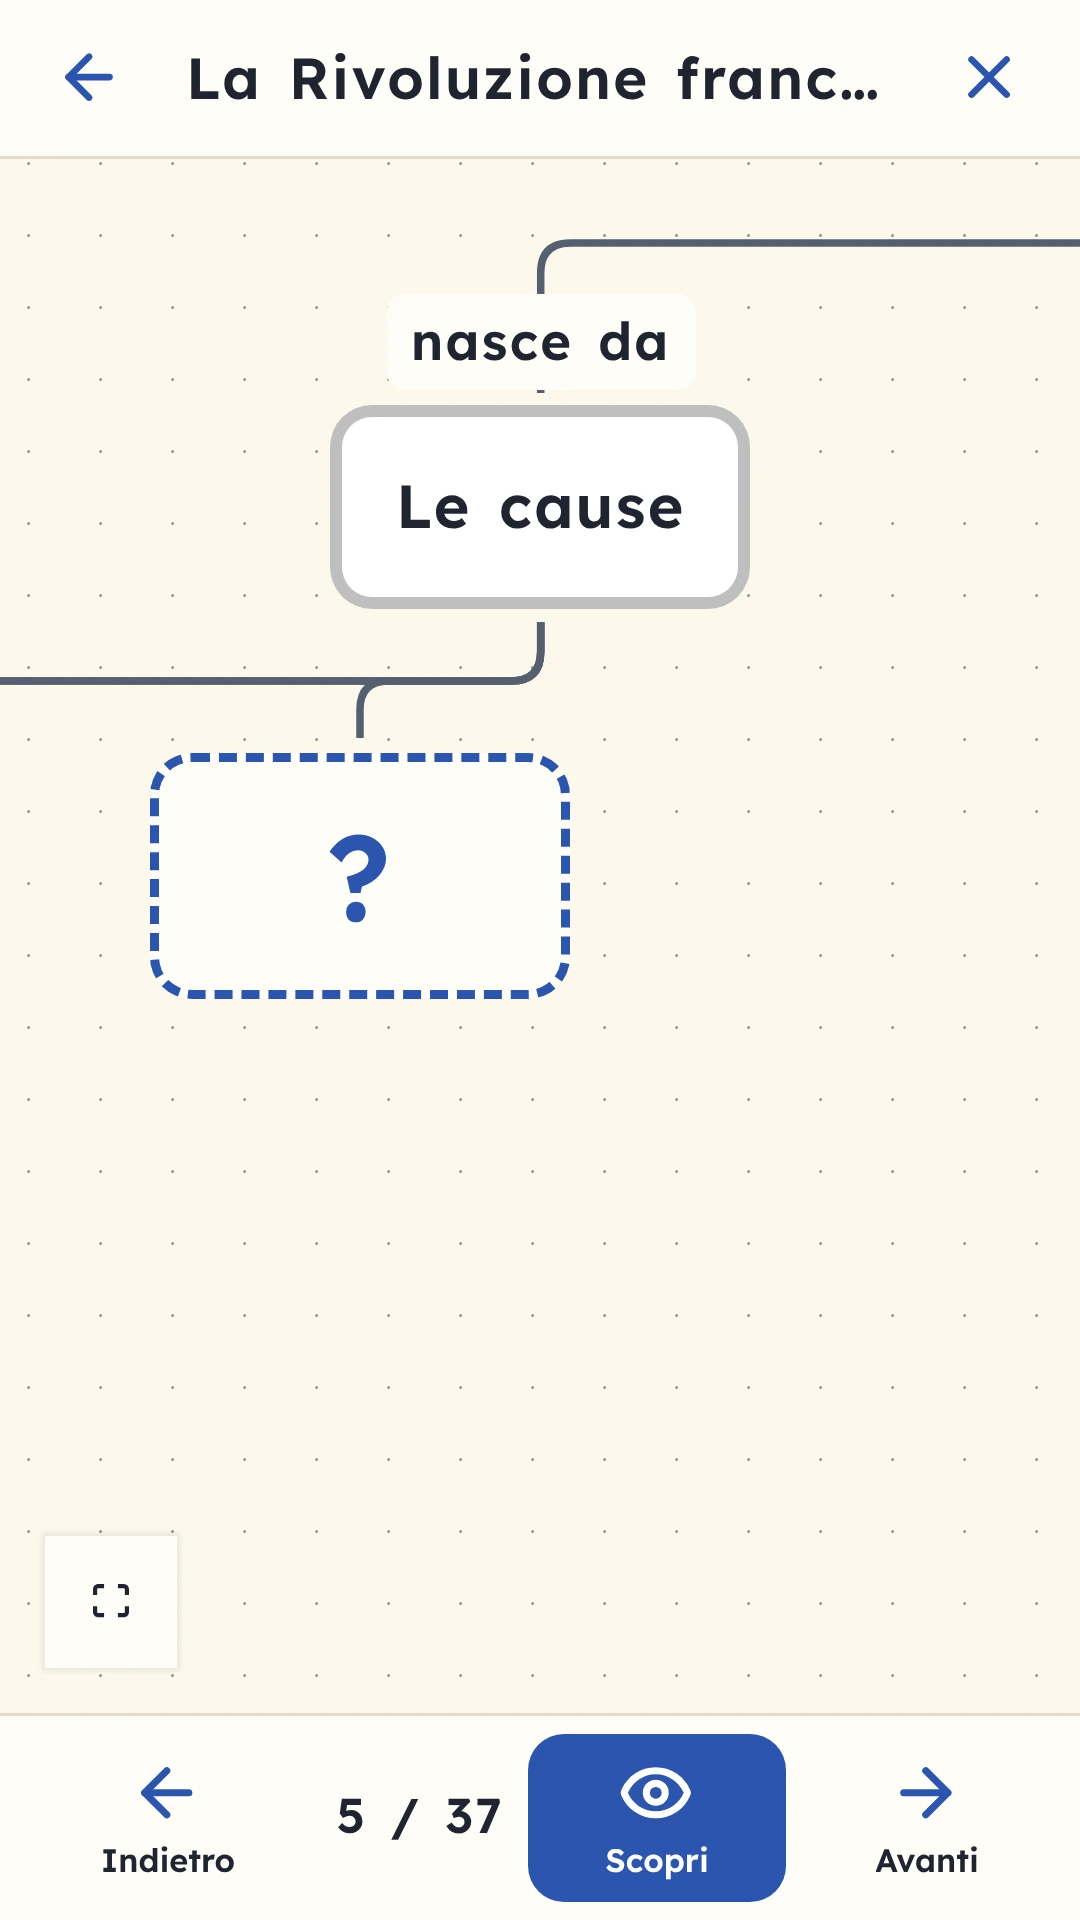
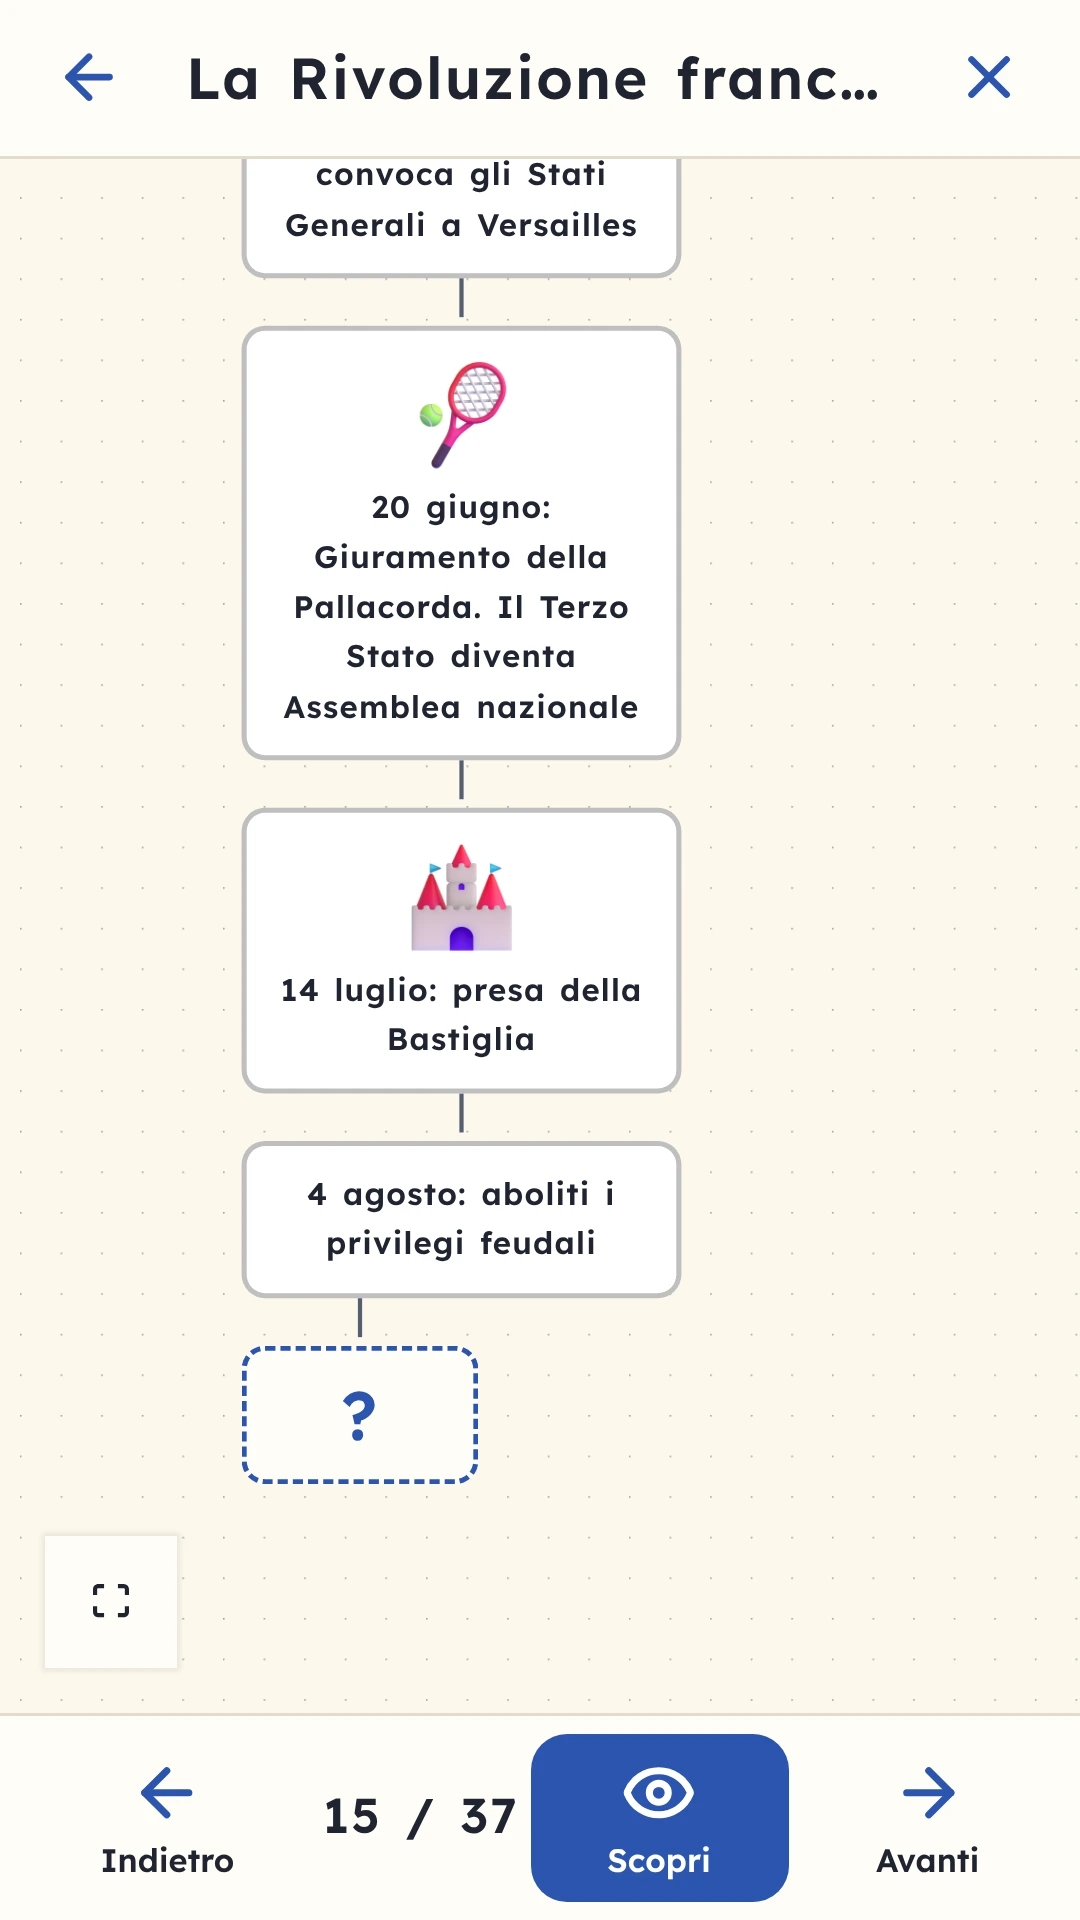
Le schermate per «Installa» entrano nel manifest e non pesano sulla cache
Chrome ora le trova nel manifest (4 schermate, con l'etichetta in italiano)
e le scarica solo quando mostra la finestra «Installa»: restano fuori dalla
cache del service worker, così nessun bambino le scarica per niente.
Le schermate «Indovina» e quella larga sono rifatte più da vicino, con il
testo leggibile.

Nei testi per il lancio non si scrive più «nessun dato raccolto»: l'app non
raccoglie dati di chi la usa, ma il server vede l'indirizzo IP, come dice
l'informativa. Nella tabella dei concorrenti l'account di Mindomo diventa
«non osservato». Il link «Guarda come si fa» dice a chi usa la voce che si
apre in un'altra scheda, e la pagina «Come installare» non promette dove sta
il tasto Condividi su iPhone.

Claude-Session: https://claude.ai/code/session_018GY29AcSauU8Mckh8zUVXE

diff --git a/vite.config.ts b/vite.config.ts
@@ -22,9 +22,18 @@ export default defineConfig({
           { src: 'icon-512.png', sizes: '512x512', type: 'image/png', purpose: 'any' },
           { src: 'icon-maskable-512.png', sizes: '512x512', type: 'image/png', purpose: 'maskable' },
         ],
+        // Shown by Chrome's richer install dialog (npm run screenshots).
+        screenshots: [
+          { src: 'screenshots/narrow-1.webp', sizes: '1080x1920', type: 'image/webp', form_factor: 'narrow', label: 'Un ramo della mappa «La Rivoluzione francese», colorato' },
+          { src: 'screenshots/narrow-2.webp', sizes: '1080x1920', type: 'image/webp', form_factor: 'narrow', label: 'Ripassa con «Indovina»: i concetti si scoprono uno alla volta' },
+          { src: 'screenshots/wide-1.webp', sizes: '1920x1080', type: 'image/webp', form_factor: 'wide', label: 'La mappa «La Rivoluzione francese», a colori: il ramo «Le fasi»' },
+          { src: 'screenshots/wide-2.webp', sizes: '1920x1080', type: 'image/webp', form_factor: 'wide', label: '«Aspetto e voce»: caratteri per la dislessia, anche OpenDyslexic' },
+        ],
       },
       workbox: {
         globPatterns: ['**/*.{js,css,html,svg,woff2,webp}'],
+        // Only the browser's install dialog fetches them, from the network: not worth precaching for every user.
+        globIgnores: ['screenshots/**'],
         runtimeCaching: [
           {
             // OCR engine and Italian model (Tesseract.js), downloaded on first use.

diff --git a/public/installa.html b/public/installa.html
@@ -239,7 +239,7 @@
             <svg class="icon" viewBox="0 0 24 24" fill="none" stroke="currentColor" stroke-width="2" stroke-linecap="round" stroke-linejoin="round" aria-hidden="true">
               <path d="M12 15V3M8 7l4-4 4 4M6 11H5a1 1 0 0 0-1 1v8a1 1 0 0 0 1 1h14a1 1 0 0 0 1-1v-8a1 1 0 0 0-1-1h-1" />
             </svg>
-            (un quadrato con una freccia che sale). Su iPad sta in alto a destra, su iPhone in basso.
+            (un quadrato con una freccia che sale). Su iPad sta in alto a destra. Su iPhone sta in basso, oppure dentro il menu ⋯ (tre puntini).
           </li>
           <li>Scorri la lista verso l’alto e tocca <strong>«Aggiungi alla schermata Home»</strong>.</li>
           <li>Tocca <strong>«Aggiungi»</strong>, in alto a destra.</li>

diff --git a/e2e/installa.spec.ts b/e2e/installa.spec.ts
@@ -114,6 +114,8 @@ test.describe('«Guarda come si fa» nell’avviso dello schermo intero', () => 
     await expect(link).toBeInViewport({ ratio: 1 });
     await expect(link).toHaveAttribute('href', '/installa.html#ipad');
     await expect(link).toHaveAttribute('target', '_blank');
+    // A screen reader is told that it leaves this window; the child sees only «Guarda come si fa».
+    await expect(link).toHaveAccessibleName(/si apre in un’altra scheda/);
     await expect(link).toHaveAttribute('rel', /noopener/);
     expect(await seriousProblems(page)).toEqual([]);
     // The dialog keeps its place: the child comes back to it.

diff --git a/src/components/FullscreenButton.tsx b/src/components/FullscreenButton.tsx
@@ -30,6 +30,7 @@ export function FullscreenHint({ onClose }: { onClose(): void }) {
       <p>
         <a href="/installa.html#ipad" target="_blank" rel="noopener" style={{ display: 'inline-block', padding: '10px 0', color: 'var(--primary)' }}>
           Guarda come si fa
+          <span className="sr-only"> (si apre in un’altra scheda)</span>
         </a>
       </p>
       <div className="dialog-actions">

diff --git a/docs/lancio-web.md b/docs/lancio-web.md
@@ -12,12 +12,12 @@ Variante breve, per un titolo: *MappAmi, le mappe concettuali per DSA che ti leg
 
 ## 2. Tre testi pronti
 
-Da incollare così o da accorciare. Il nome del mittente e l'indirizzo email (vedi [Come ricevere pareri](#4-come-ricevere-pareri-senza-tracciare-nessuno)) vanno messi dal proprietario: `[…]`.
+Da incollare così o da accorciare. **Non scrivere «non viene raccolto nessun dato»**: l'app non raccoglie i dati di chi la usa e le mappe restano sul dispositivo, ma il sito è ospitato da Vercel, che per poco tempo registra dati tecnici delle visite (indirizzo IP, browser, pagina richiesta), e jsDelivr vede l'indirizzo IP quando si caricano le illustrazioni: è scritto nell'[informativa](../public/privacy.html). I testi sotto dicono solo cose vere anche per chi li confronta con l'informativa. Il nome del mittente e l'indirizzo email (vedi [Come ricevere pareri](#4-come-ricevere-pareri-senza-tracciare-nessuno)) vanno messi dal proprietario: `[…]`.
 
 **Per i genitori** (gruppi, chat di classe, passaparola)
 
 > Se vostro figlio ha un DSA e fa fatica con le mappe concettuali, forse vi può essere utile MappAmi: è gratuita, non vuole account né email e si apre dal browser del tablet, del Chromebook o del computer, senza scaricare niente. Legge la mappa ad alta voce evidenziando la parola, scrive quello che il bambino detta, ha tre caratteri per la dislessia (Lexend, Atkinson, OpenDyslexic) e può leggere il testo da una foto della pagina del libro: la foto resta sul dispositivo. La mappa però la costruisce lui, scegliendo le parole importanti: l'app non la fa al posto suo.
-> Le mappe restano sul dispositivo e non viene raccolto nessun dato. Sul tablet va messa nella schermata Home (qui c'è come: https://mapp-ami.vercel.app/installa.html). Provatela e ditemi cosa ne pensate: [email].
+> MappAmi non raccoglie dati su chi la usa: niente account, niente statistiche, e le mappe restano sul dispositivo (come ogni sito, il server vede l'indirizzo IP: è scritto nell'informativa). Sul tablet va messa nella schermata Home (qui c'è come: https://mapp-ami.vercel.app/installa.html). Provatela e ditemi cosa ne pensate: [email].
 
 **Per gli insegnanti, anche di sostegno**
 
@@ -26,7 +26,7 @@ Da incollare così o da accorciare. Il nome del mittente e l'indirizzo email (ve
 
 **Per le associazioni** (sezioni AID, gruppi di genitori DSA)
 
-> Vi presento MappAmi, un'app gratuita per fare mappe concettuali, nata per i ragazzi con DSA: https://mapp-ami.vercel.app. Non ha account, pubblicità né statistiche, e le mappe restano sul dispositivo (gli utenti sono spesso minorenni). Legge con la parola evidenziata, ascolta la dettatura, ha tre caratteri ad alta leggibilità, legge il testo da una foto del libro sul dispositivo e stampa una versione in bianco e nero per la verifica. Non genera le mappe con l'intelligenza artificiale: le costruisce il ragazzo, con le sue parole.
+> Vi presento MappAmi, un'app gratuita per fare mappe concettuali, nata per i ragazzi con DSA: https://mapp-ami.vercel.app. Non ha account né pubblicità, non raccoglie dati su chi la usa e le mappe restano sul dispositivo (gli utenti sono spesso minorenni; come ogni sito, il server vede l'indirizzo IP, e l'informativa lo dice). Legge con la parola evidenziata, ascolta la dettatura, ha tre caratteri ad alta leggibilità, legge il testo da una foto del libro sul dispositivo e stampa una versione in bianco e nero per la verifica. Non genera le mappe con l'intelligenza artificiale: le costruisce il ragazzo, con le sue parole.
 > Funziona nel browser di iPad, Chromebook, tablet Android e computer; la guida all'installazione è su https://mapp-ami.vercel.app/installa.html. Se vi sembra utile, potete segnalarla ai soci o a una serata sugli strumenti compensativi. Accetto volentieri critiche e consigli da chi la usa ogni giorno: [email].
 
 Non servono nomi di concorrenti, né confronti nei testi ([docs/mercato.md](mercato.md) è per noi).

diff --git a/docs/mercato.md b/docs/mercato.md
@@ -15,7 +15,7 @@ Serve a scegliere con i dati in mano cosa dire di MappAmi e cosa costruire dopo.
 | **Algor Education** | Web, iOS (4,65 su 210 voti), Android (4,4 su 248 recensioni, oltre 50.000 download) | Gratis: 15.000 caratteri e 30 crediti (circa 2 schede di studio); poi 2,99 / 5,49 / 7,99 € al mese | **Sì** | **Sì**: mappe da PDF, foto, testo, YouTube |
 | **Reasy** (Tech4All, nato dal progetto europeo Vrailexia) | iOS (3,8 su 5 voti) | Gratis con acquisti nell'app ⚠ (prezzi non osservati) | **Sì** (sincronizzazione) | Mappe automatiche da PDF o foto |
 | **Read4Mi** | Solo iOS osservato (0 voti) | 9,99 € al mese o 99,99 € l'anno | Non osservato ⚠ | Sì: OCR con AI, anche scrittura a mano; mappe a mano o automatiche |
-| **Mindomo** | iOS 4,58 (631 voti), Android 4,8, web | Gratis: 3 diagrammi; Premium circa 6–7 € al mese ⚠ (approssimato) | Sì | Non osservata |
+| **Mindomo** | iOS 4,58 (631 voti), Android 4,8, web | Gratis: 3 diagrammi; Premium circa 6–7 € al mese ⚠ (approssimato) | Non osservato ⚠ (probabile) | Non osservata |
 | **MindMeister** | Android 3,9, web | Gratis: 3 mappe | Sì (registrazione) | Non osservata |
 | **XMind** | iOS 4,69 (3.549 voti), Android 4,6, computer | Gratis: 10 mappe online, esportazione con filigrana; Pro 4,92 $ al mese | Non osservato | Non osservata |
 | **SimpleMind** | iOS 3,98 (531 voti) | Gratis | No | Non osservata |
@@ -34,7 +34,7 @@ Altri nomi visti, non mappe concettuali complete: **CmapTools** (computer, grati
 | Algor | ⚠ dichiarata solo nel suo blog, non nella pagina del prodotto | Non osservata | Sì (foto, PDF) | Non osservato | ⚠ dichiarato solo nel blog | Schede con ripetizione a intervalli, quiz | Non osservata |
 | Reasy | Sì (per parola, frase o testo); significato delle parole | Non osservata | Sì (PDF o foto) | Non osservato | EasyReading e altri | Non osservato | Sincronizzazione con l'account |
 | Read4Mi | Sì, da PDF ad audiolibro con evidenziazione sincronizzata; voci neurali | Sì | Sì, anche scrittura a mano | Non osservato | Non osservati | Non osservato | Non osservata (esporta immagine o PDF) |
-| Mindomo, MindMeister, XMind | Non osservata (Mindomo: non nella pagina dei prezzi; MindMeister: non citata) | Non osservata | Non osservato | Non osservato | Non osservati | Non osservato | Con account; esportazioni (XMind: con filigrana nel gratuito) |
+| Mindomo, MindMeister, XMind | Non osservata (Mindomo: non nella pagina dei prezzi; MindMeister: non citata) | Non osservata | Non osservato | Non osservato | Non osservati | Non osservato | Probabilmente con account ⚠ (osservato solo per MindMeister); esportazioni (XMind: con filigrana nel gratuito) |
 
 **Come si posiziona MappAmi**, in una frase da usare ovunque: *gratuita, senza account, nel browser di tablet, Chromebook e computer della scuola, con OCR sul dispositivo e lettura con parola evidenziata, che lascia costruire la mappa al bambino.*
 

diff --git a/docs/rilascio.md b/docs/rilascio.md
@@ -23,7 +23,7 @@ npm run test:csp                                           # il sito con le inte
         run: npm run test:csp
   ```
 
-- Le schermate per la finestra «Installa» di Chrome (`public/screenshots/*.webp`) si rifanno con `npm run screenshots` (serve un `npx vite preview --port 4182` acceso; `--url` per un altro indirizzo) quando l'aspetto dell'app cambia molto. Guardarle una per una: niente finestra di benvenuto, niente parole tagliate. Ognuna sotto i 150 KB.
+- Le schermate per la finestra «Installa» di Chrome (`public/screenshots/*.webp`) si rifanno con `npm run screenshots` (serve un `npx vite preview --port 4182` acceso; `--url` per un altro indirizzo) quando l'aspetto dell'app cambia molto. Guardarle una per una: niente finestra di benvenuto, niente parole tagliate. Ognuna sotto i 150 KB. Sono elencate in `screenshots` del manifest in `vite.config.ts` (nome, misura, etichetta) e lasciate fuori dalla cache del service worker con `globIgnores: ['screenshots/**']`: le scarica solo Chrome quando mostra la finestra «Installa». Se cambiano nome o misura, aggiornare anche quell'elenco; dopo `npm run build`, `dist/sw.js` non deve nominarle.
 - Cambiato `vercel.json` (policy, intestazioni)? Rilanciare sempre `npm run test:csp`. Aggiunto un servizio esterno o una funzione che usa internet? Aggiornare anche la policy, la pagina `public/privacy.html` e il test.
 
 ## 2. Dopo la pubblicazione: prova di fumo
